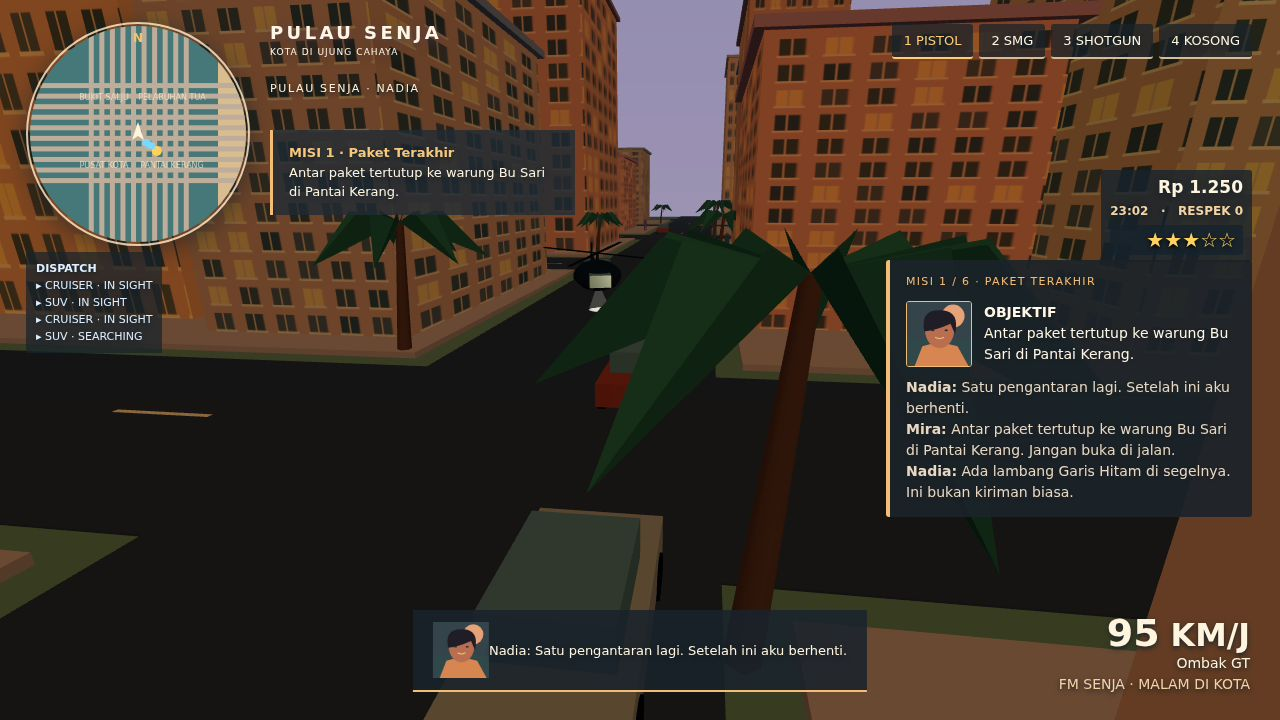
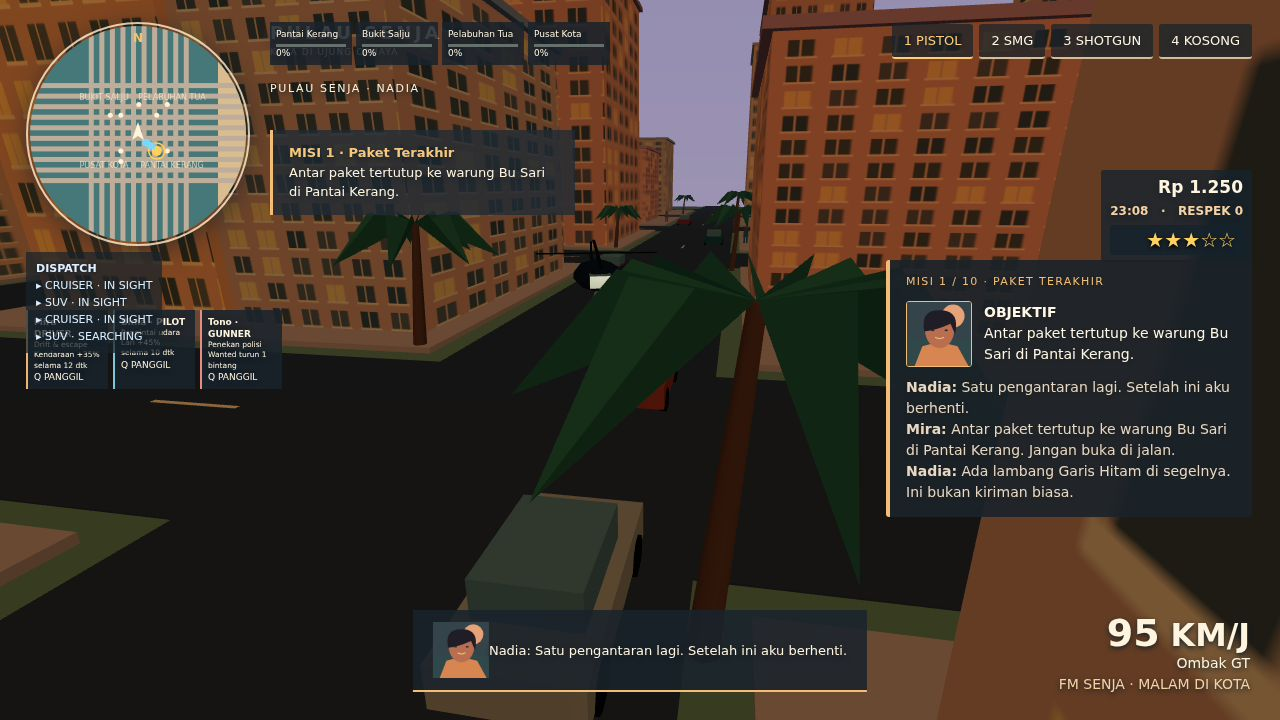
Crew system, district standing, 10 missions, 14 vehicles (recorded)

diff --git a/game/src/missions.js b/game/src/missions.js
@@ -2,13 +2,18 @@ import { getDialogue, getMissionTitle } from './story.js';
 import { createPortrait } from './portrait.js';
 
 const missions = [
-  { objective: 'Antar paket tertutup ke warung Bu Sari di Pantai Kerang.', target: [68, 0, 68], action: 'deliver', reward: 250, respect: 5 },
-  { objective: 'Selidiki peti Garis Hitam di gudang Pelabuhan Tua.', target: [68, 0, -68], action: 'reach', reward: 400, respect: 8 },
-  { objective: 'Temui Raka di jalan layang Pusat Kota dan dengarkan kesaksiannya.', target: [-68, 0, 68], action: 'reach', reward: 550, respect: 10 },
-  { objective: 'Buntuti kurir Garis Hitam sampai ke Bukit Salju.', target: [-68, 0, -68], action: 'follow', reward: 700, respect: 12 },
-  { objective: 'Ambil buku catatan pemerasan dari menara pengawas.', target: [0, 0, -108], action: 'collect', reward: 900, respect: 16 },
-  { objective: 'Bawa salinan bukti ke stasiun radio dan ungkap Garis Hitam.', target: [0, 0, 0], action: 'broadcast', reward: 1500, respect: 25 },
+  { objective: 'Antar paket tertutup ke warung Bu Sari di Pantai Kerang.', target: [68, 0, 68], district: 'Pantai Kerang', action: 'deliver', reward: 250, respect: 5 },
+  { objective: 'Selidiki peti Garis Hitam di gudang Pelabuhan Tua.', target: [68, 0, -68], district: 'Pelabuhan Tua', action: 'reach', reward: 400, respect: 8 },
+  { objective: 'Temui Raka di jalan layang Pusat Kota dan dengarkan kesaksiannya.', target: [-68, 0, 68], district: 'Pusat Kota', action: 'reach', reward: 550, respect: 10 },
+  { objective: 'Buntuti kurir Garis Hitam sampai ke Bukit Salju.', target: [-68, 0, -68], district: 'Bukit Salju', action: 'follow', reward: 700, respect: 12 },
+  { objective: 'Ambil buku catatan pemerasan dari menara pengawas.', target: [0, 0, -108], district: 'Bukit Salju', action: 'collect', reward: 900, respect: 16 },
+  { objective: 'Bawa salinan bukti ke stasiun radio dan ungkap Garis Hitam.', target: [0, 0, 0], district: 'Pusat Kota', action: 'broadcast', reward: 1500, respect: 25 },
+  { objective: 'Temukan saksi pelabuhan yang bersembunyi di Pantai Kerang.', target: [108, 0, 68], district: 'Pantai Kerang', action: 'reach', reward: 650, respect: 12 },
+  { objective: 'Kawal kapal kecil membawa bukti melewati dermaga lama.', target: [108, 0, -108], district: 'Pelabuhan Tua', action: 'reach', reward: 800, respect: 15 },
+  { objective: 'Ambil rekaman transaksi dari garasi di Bukit Salju.', target: [-108, 0, -68], district: 'Bukit Salju', action: 'collect', reward: 950, respect: 18 },
+  { objective: 'Sampaikan bukti terakhir ke warga di alun-alun kota.', target: [-68, 0, 108], district: 'Pusat Kota', action: 'broadcast', reward: 1800, respect: 30 },
 ];
+const bonusMission = { title: 'Bantuan Warga', objective: 'Bantu warga melindungi kios dari pemerasan.', target: [68, 0, 108], district: 'Pantai Kerang', action: 'reach', reward: 1200, respect: 20, bonus: true };
 
 for (const [index, mission] of missions.entries()) {
   mission.title = getMissionTitle(index);
@@ -30,20 +35,22 @@ function ensurePanel() {
   return panel;
 }
 
-export function createMissions({ player, query = new URLSearchParams(location.search), initialMission = 0, onComplete = () => {} } = {}) {
+export function createMissions({ player, query = new URLSearchParams(location.search), initialMission = 0, getStanding = () => 0, onComplete = () => {} } = {}) {
   const requestedMission = Number(query.get('mission'));
   let index = query.has('mission') && Number.isFinite(requestedMission) && requestedMission >= 1
     ? Math.max(0, Math.min(missions.length - 1, Math.floor(requestedMission) - 1))
     : Math.max(0, Math.min(missions.length - 1, initialMission));
   let complete = false;
+  let bonusAvailable = getStanding('Pantai Kerang') >= 12;
+  let bonusActive = false;
   const panel = ensurePanel();
 
   function render() {
-    const mission = missions[index];
-    const lines = getDialogue(index);
+    const mission = bonusActive ? bonusMission : missions[index];
+    const lines = bonusActive ? getDialogue(10) : getDialogue(index);
     const speaker = lines[0]?.speaker ?? 'Nadia';
     const portrait = createPortrait(speaker, 64).toDataURL();
-    panel.innerHTML = `<div style="color:#f4bd77;letter-spacing:.12em;font-size:11px">MISI ${index + 1} / ${missions.length} · ${mission.title.toUpperCase()}</div><div style="display:flex;gap:12px;align-items:center;margin-top:10px"><img width="64" height="64" alt="Potret ${speaker}" src="${portrait}" style="border:1px solid #f4bd77;border-radius:3px"><div><strong>OBJEKTIF</strong><br>${mission.objective}</div></div><div style="margin-top:10px;color:#e7d7c3">${lines.map(line => `<div><b>${line.speaker}:</b> ${line.text}</div>`).join('')}</div>${complete ? '<div style="margin-top:9px;color:#f4bd77">MISI SELESAI · TUJUAN BERIKUTNYA TERBUKA</div>' : ''}`;
+    panel.innerHTML = `<div style="color:#f4bd77;letter-spacing:.12em;font-size:11px">${bonusActive ? 'MISI BONUS' : `MISI ${index + 1} / ${missions.length}`} · ${mission.title.toUpperCase()}</div><div style="display:flex;gap:12px;align-items:center;margin-top:10px"><img width="64" height="64" alt="Potret ${speaker}" src="${portrait}" style="border:1px solid #f4bd77;border-radius:3px"><div><strong>OBJEKTIF</strong><br>${mission.objective}</div></div><div style="margin-top:10px;color:#e7d7c3">${lines.map(line => `<div><b>${line.speaker}:</b> ${line.text}</div>`).join('')}</div>${complete ? '<div style="margin-top:9px;color:#f4bd77">MISI SELESAI · TUJUAN BERIKUTNYA TERBUKA</div>' : ''}`;
     panel.hidden = false;
     panel.style.display = 'block';
     panel.style.top = '260px';
@@ -51,12 +58,16 @@ export function createMissions({ player, query = new URLSearchParams(location.se
 
   function update() {
     if (complete) return false;
-    const mission = missions[index];
+    const mission = bonusActive ? bonusMission : missions[index];
+    if (!bonusAvailable && getStanding('Pantai Kerang') >= 20) {
+      bonusAvailable = true;
+      render();
+    }
     const dx = player.position.x - mission.target[0];
     const dz = player.position.z - mission.target[2];
     if (Math.hypot(dx, dz) < 9) {
       complete = true;
-      onComplete({ ...mission, index });
+      onComplete({ ...mission, index, bonus: bonusActive });
       render();
       return true;
     }
@@ -64,15 +75,26 @@ export function createMissions({ player, query = new URLSearchParams(location.se
   }
 
   function advance() {
-    if (!complete || index >= missions.length - 1) return false;
-    index += 1;
+    if (!complete) return false;
+    if (bonusActive) {
+      bonusActive = false;
+      bonusAvailable = false;
+    } else if (index < missions.length - 1) index += 1;
+    else return false;
     complete = false;
     render();
     return true;
   }
 
+  function startBonus() {
+    if (!bonusAvailable || bonusActive || complete) return false;
+    bonusActive = true;
+    render();
+    return true;
+  }
+
   render();
-  return { update, advance, get current() { return { ...missions[index], index, complete }; } };
+  return { update, advance, startBonus, get bonusAvailable() { return bonusAvailable; }, get current() { return { ...(bonusActive ? bonusMission : missions[index]), index, complete, bonus: bonusActive }; } };
 }
 
 export { missions };

diff --git a/game/src/hud.js b/game/src/hud.js
@@ -2,12 +2,13 @@ import { createMinimap } from './minimap.js';
 import { createPortrait } from './portrait.js';
 
 const style = document.createElement('style');
-style.textContent = `#ps-hud{position:fixed;inset:0;z-index:4;color:#fff5df;font:13px Arial,sans-serif;text-shadow:0 2px 5px #18232c;pointer-events:none}#ps-map{position:absolute;left:26px;top:22px}#ps-stats{position:absolute;right:28px;top:140px;text-align:right;font-size:17px;font-weight:bold}#ps-stats small{display:block;font-size:12px;color:#f6d2a3;margin-top:7px}#ps-weapons{position:absolute;right:28px;top:24px;display:flex;gap:6px}#ps-weapons span{padding:9px 12px;background:#19232cbb;border-bottom:2px solid #d5bd98;border-radius:3px}#ps-weapons .active{border-color:#ffce76;color:#ffce76}#ps-car{position:absolute;right:30px;bottom:28px;text-align:right;font-size:14px}#ps-speed{font-size:38px;font-weight:bold}#ps-radio{color:#f6d2a3;margin-top:5px}#ps-mission{position:absolute;left:270px;top:130px;width:270px;padding:13px 16px;background:#202b35c9;border-left:3px solid #f3bd76;line-height:1.5}#ps-dialogue{position:absolute;left:50%;bottom:28px;transform:translateX(-50%);min-width:380px;max-width:620px;padding:12px 20px;background:#19232cdd;border-bottom:2px solid #f3bd76;text-align:center;display:none}#ps-dialogue img{width:56px;height:56px;object-fit:cover;border:1px solid #f3bd76;border-radius:3px}#ps-dialogue-content{display:inline-block;vertical-align:middle;margin-left:12px;max-width:500px;text-align:left}#ps-dispatch{position:absolute;left:26px;top:252px;padding:8px 10px;background:#19232cbb;line-height:1.55;color:#dceeff;font-size:11px}#ps-title{position:absolute;left:270px;top:82px;font-size:11px;letter-spacing:.15em;color:#fff0d6}`;
+style.textContent = `#ps-hud{position:fixed;inset:0;z-index:4;color:#fff5df;font:13px Arial,sans-serif;text-shadow:0 2px 5px #18232c;pointer-events:none}#ps-map{position:absolute;left:26px;top:22px}#ps-stats{position:absolute;right:28px;top:140px;text-align:right;font-size:17px;font-weight:bold}#ps-stats small{display:block;font-size:12px;color:#f6d2a3;margin-top:7px}#ps-weapons{position:absolute;right:28px;top:24px;display:flex;gap:6px}#ps-weapons span{padding:9px 12px;background:#19232cbb;border-bottom:2px solid #d5bd98;border-radius:3px}#ps-weapons .active{border-color:#ffce76;color:#ffce76}#ps-car{position:absolute;right:30px;bottom:28px;text-align:right;font-size:14px}#ps-speed{font-size:38px;font-weight:bold}#ps-radio{color:#f6d2a3;margin-top:5px}#ps-mission{position:absolute;left:270px;top:130px;width:270px;padding:13px 16px;background:#202b35c9;border-left:3px solid #f3bd76;line-height:1.5}#ps-dialogue{position:absolute;left:50%;bottom:28px;transform:translateX(-50%);min-width:380px;max-width:620px;padding:12px 20px;background:#19232cdd;border-bottom:2px solid #f3bd76;text-align:center;display:none}#ps-dialogue img{width:56px;height:56px;object-fit:cover;border:1px solid #f3bd76;border-radius:3px}#ps-dialogue-content{display:inline-block;vertical-align:middle;margin-left:12px;max-width:500px;text-align:left}#ps-dispatch{position:absolute;left:26px;top:252px;padding:8px 10px;background:#19232cbb;line-height:1.55;color:#dceeff;font-size:11px}#ps-title{position:absolute;left:270px;top:82px;font-size:11px;letter-spacing:.15em;color:#fff0d6}#ps-crew{position:absolute;left:26px;top:310px;display:grid;grid-template-columns:repeat(3,82px);gap:5px}#ps-crew article,#ps-standing article{background:#19232cdd;border-left:2px solid var(--crew);padding:6px;font-size:9px;line-height:1.35}#ps-crew b,#ps-crew small{display:block}#ps-standing{position:absolute;left:270px;top:22px;display:flex;gap:4px}#ps-standing article{width:70px;border-color:#f3bd76}#ps-standing i{display:block;height:3px;background:#66716e;margin-top:4px}#ps-standing em{display:block;height:3px;background:#f3bd76}`;
+
 document.head.append(style);
 
 export function createHud() {
   const root = document.createElement('div'); root.id = 'ps-hud';
-  root.innerHTML = '<div id="ps-map"></div><div id="ps-stats"></div><div id="ps-weapons"></div><div id="ps-car"></div><div id="ps-mission"></div><div id="ps-dialogue"></div><div id="ps-dispatch"></div><div id="ps-title">PULAU SENJA · NADIA</div>';
+  root.innerHTML = '<div id="ps-map"></div><div id="ps-standing"></div><div id="ps-crew"></div><div id="ps-stats"></div><div id="ps-weapons"></div><div id="ps-car"></div><div id="ps-mission"></div><div id="ps-dialogue"></div><div id="ps-dispatch"></div><div id="ps-title">PULAU SENJA · NADIA</div>';
   const shotNumber = Number(new URLSearchParams(location.search).get('shot'));
   const hint = document.querySelector('#hint');
   document.body.append(root);
@@ -27,8 +28,13 @@ export function createHud() {
     const speed = data.vehicle ? (shotNumber === 1 ? 95 : Math.round(Math.abs(data.vehicle.speed) * 3.6)) : 0;
     document.querySelector('#ps-car').innerHTML = data.vehicle ? `<div id="ps-speed">${speed}<small> KM/J</small></div>${data.vehicle.name}<div id="ps-radio">FM SENJA · ${data.radio ?? 'MALAM DI KOTA'}</div>` : '';
     const mission = data.mission;
-    document.querySelector('#ps-mission').innerHTML = mission ? `<b style="color:#f6c77d">MISI ${mission.index + 1} · ${mission.title}</b><br>${mission.objective}` : '';
-    map.draw(data.player, mission, data.police);
+    document.querySelector('#ps-mission').innerHTML = mission ? `<b style="color:#f6c77d">${mission.bonus ? 'MISI BONUS' : `MISI ${mission.index + 1} · ${mission.title}`}</b><br>${mission.objective}` : '';
+    const standing = document.querySelector('#ps-standing');
+    standing.innerHTML = (data.districts ?? []).map(d => `<article>${d.name}<i><em style="width:${Math.min(100, d.value)}%"></em></i>${d.value}%</article>`).join('');
+    const crew = document.querySelector('#ps-crew');
+    crew.innerHTML = (data.crew?.members ?? []).map(member => `<article style="--crew:${member.color}"><b>${member.name} · ${member.role}</b><small>${member.specialty}</small><small>${member.ability}</small>${data.crew.active === member.type ? 'AKTIF' : data.crew.cooldown > 0 ? `Q ${Math.ceil(data.crew.cooldown)}s` : 'Q PANGGIL'}</article>`).join('');
+    map.draw(data.player, mission, data.police, data.missions);
+    if (mission?.title) document.querySelector('#ps-mission b').textContent = mission.bonus ? 'MISI BONUS' : `MISI ${mission.index + 1} · ${mission.title}`;
     const dispatch = document.querySelector('#ps-dispatch');
     dispatch.innerHTML = data.policeStatus?.length ? `<b>DISPATCH</b><br>${data.policeStatus.map(status => `▸ ${status}`).join('<br>')}` : '';
     const bar = document.querySelector('#ps-dialogue');

diff --git a/game/src/main.js b/game/src/main.js
@@ -7,8 +7,9 @@ import { createPlayer, updatePlayer, nearbyVehicle, enterVehicle, leaveVehicle, 
 import { createVehicles, createTrafficCars, updateVehicle } from './vehicles.js';
 import { tickTraffic } from './traffic.js';
 import { createPeds, tickPeds } from './peds.js';
-import { createMissions } from './missions.js';
+import { createMissions, missions as missionList } from './missions.js';
 import { createHud } from './hud.js';
+import { createCrew } from './crew.js';
 import { createAudio } from './audio.js';
 import { loadGame, saveGame } from './save.js';
 import { createMenu } from './menu.js';
@@ -30,7 +31,7 @@ const environment = createEnvironment(scene);
 const city = createCity(scene);
 const input = createInput(renderer.domElement);
 const player = createPlayer(scene);
-const vehicles = createVehicles(scene, city.blockers, 8);
+const vehicles = createVehicles(scene, city.blockers, 14);
 const traffic = createTrafficCars(scene, vehicles, 10);
 const peds = createPeds(scene);
 const query = new URLSearchParams(location.search);
@@ -38,19 +39,27 @@ const save = loadGame();
 if (save) player.position.set(save.x, 0.75, save.z);
 let money = save?.money ?? 1250;
 let respect = save?.respect ?? 0;
+const districts = city.districts.map(district => ({ name: district.name, value: Math.max(0, Math.min(100, save?.districts?.[district.name] ?? 0)) }));
+const police = createPolice(scene, Number(query.get('wanted')) || 0);
+let wanted = police.wanted;
+const crew = createCrew({ onWanted: value => { setPoliceWanted(police, value); wanted = police.wanted; } });
 const missions = createMissions({
   player,
   query,
   initialMission: save?.mission ?? 0,
+  getStanding: name => districts.find(district => district.name === name)?.value ?? 0,
   onComplete(mission) {
     money += mission.reward;
     respect += mission.respect;
+    if (mission.district) {
+      const standing = districts.find(district => district.name === mission.district);
+      if (standing) standing.value = Math.min(100, standing.value + Math.max(8, mission.respect));
+    }
   },
 });
+const persist = () => saveGame({ money, respect, mission: missions.current.index, player, districts: Object.fromEntries(districts.map(district => [district.name, district.value])) });
 const hud = createHud();
 const audio = createAudio();
-const police = createPolice(scene, Number(query.get('wanted')) || 0);
-let wanted = police.wanted;
 const clock = new THREE.Clock();
 const focus = new THREE.Vector3();
 const targetCamera = new THREE.Vector3();
@@ -65,10 +74,15 @@ if (shotSetup?.number === 1) {
   driven = chaseCar;
 }
 let toggleWasDown = false;
+let crewWasDown = false;
 
 function frame() {
   requestAnimationFrame(frame);
   const dt = Math.min(clock.getDelta(), 0.05);
+  crew.update(dt, player, driven);
+  const crewDown = input.keys.has('KeyQ');
+  if (crewDown && !crewWasDown) crew.call(player, vehicles, driven, police);
+  crewWasDown = crewDown;
   const toggleDown = input.keys.has('KeyF');
   if (toggleDown && !toggleWasDown) {
     if (driven) {
@@ -104,13 +118,14 @@ function frame() {
   }
   const hour = environment.update(clock.elapsedTime, startHour);
   const missionCompleted = missions.update();
-  if (missionCompleted) saveGame({ money, respect, mission: missions.current.index, player });
+  if (missionCompleted) persist();
+  if (!missions.current.bonus && missions.bonusAvailable) missions.startBonus();
   const mission = missions.current;
   audio.update(driven?.speed ?? 0, wanted);
   const dialogue = shotDialogue(shotSetup?.number) ?? getDialogue(mission.index)?.[0] ?? null;
-  hud.render({ player, vehicle: driven, mission, money, respect, wanted, hour, weapon: hud.weapon, dialogue, police: policeHud(police), policeStatus: getPoliceStatus(police) });
+  hud.render({ player, vehicle: driven, mission, missions: missionList.map((item, index) => ({ ...item, index })), districts, crew, money, respect, wanted, hour, weapon: hud.weapon, dialogue, police: policeHud(police), policeStatus: getPoliceStatus(police) });
   if (wanted !== police.wanted) wanted = police.wanted;
-  if (Math.floor(clock.elapsedTime) !== Math.floor(clock.elapsedTime - dt)) saveGame({ money, respect, mission: mission.index, player });
+  if (Math.floor(clock.elapsedTime) !== Math.floor(clock.elapsedTime - dt)) persist();
   renderer.render(scene, camera);
 }
 camera.position.set(-16, 13, -18);
@@ -130,24 +145,25 @@ window.pulauSenja = { camera, player, vehicles, traffic, peds, police, hud, audi
 
 window.addEventListener('keydown', event => {
   if (event.code === 'Enter' && missions.current.complete && missions.advance()) {
-    saveGame({ money, respect, mission: missions.current.index, player });
+    persist();
   }
   if (event.code === 'Escape') {
     if (document.querySelector('#ps-menu')) return;
     createMenu({
       onStart() {},
-      onSave() { saveGame({ money, respect, mission: missions.current.index, player }); },
+      onSave() { persist(); },
       onLoad() {
         const state = loadGame();
         if (!state) return false;
         money = state.money; respect = state.respect;
+        for (const district of districts) district.value = Math.max(0, Math.min(100, state.districts?.[district.name] ?? 0));
         player.position.set(state.x, 0.75, state.z);
         return true;
       },
     });
   }
 });
-window.addEventListener('beforeunload', () => saveGame({ money, respect, mission: missions.current.index, player }));
+window.addEventListener('beforeunload', persist);
 let mouseDown = false;
 renderer.domElement.addEventListener('pointerdown', event => {
   if (event.button !== 0 || mouseDown || driven) return;

diff --git a/game/src/vehicles.js b/game/src/vehicles.js
@@ -1,9 +1,10 @@
 import * as THREE from 'three';
 
-export const CAR_NAMES = ['Ombak GT', 'Sepat Badak', 'Layar Kencana', 'Rajawali Kota', 'Kuda Laut', 'Merapi Sport', 'Cendrawasih', 'Becak Baja'];
-const PAINT = ['#d87558', '#e4b64f', '#679b91', '#657ba0', '#c98791', '#d8d1bd', '#795c82', '#458080'];
+export const CAR_NAMES = ['Ombak GT', 'Sepat Badak', 'Layar Kencana', 'Rajawali Kota', 'Kuda Laut', 'Merapi Sport', 'Cendrawasih', 'Becak Baja', 'Sagara RS', 'Harimau Kota', 'Puspa Touring', 'Badai Selatan', 'Komet Senja', 'Benteng Tua'];
+const PAINT = ['#d87558', '#e4b64f', '#679b91', '#657ba0', '#c98791', '#d8d1bd', '#795c82', '#458080', '#c45d4c', '#8fa84b', '#65a7b5', '#be8b52', '#8874ad', '#7a8281'];
+const STATS = [30, 24, 27, 32, 22, 35, 29, 19, 38, 20, 26, 34, 40, 18];
 
-export function createVehicles(scene, blockers, count = 8) {
+export function createVehicles(scene, blockers, count = 14) {
   const cars = [];
   for (let i = 0; i < count; i++) {
     const group = new THREE.Group();
@@ -19,12 +20,13 @@ export function createVehicles(scene, blockers, count = 8) {
     const parking = [
       [0, 3.4], [40, -3.5], [-40, 3.5], [80, -3.5],
       [-80, 3.5], [120, -3.5], [-120, 3.5], [160, -3.5],
+      [0, -43.5], [40, 43.5], [-40, -43.5], [80, 43.5], [-80, -43.5], [120, 43.5],
     ];
     const spot = parking[i % parking.length];
     group.position.set(spot[0], 0, spot[1]);
     group.rotation.y = Math.PI;
     scene.add(group);
-    cars.push({ group, name: CAR_NAMES[i % CAR_NAMES.length], speed: 0, occupied: false, npc: false, wheels, paint });
+    cars.push({ group, name: CAR_NAMES[i % CAR_NAMES.length], speed: 0, maxSpeed: STATS[i % STATS.length], accel: 17 + i % 4, occupied: false, npc: false, wheels, paint });
   }
   return cars;
 }
@@ -49,8 +51,9 @@ export function collides(position, blockers, halfX = 1.2, halfZ = 2.2) {
 }
 
 export function updateVehicle(car, input, blockers, dt) {
-  const accel = input.keys.has('KeyW') ? 17 : input.keys.has('KeyS') ? -22 : 0;
-  car.speed = THREE.MathUtils.clamp(car.speed + accel * dt, -9, 30);
+  const accel = input.keys.has('KeyW') ? (car.accel ?? 17) : input.keys.has('KeyS') ? -22 : 0;
+  const crewBoost = performance.now() < (car.crewSpeedUntil ?? 0) ? 1.35 : 1;
+  car.speed = THREE.MathUtils.clamp(car.speed + accel * crewBoost * dt, -9, car.maxSpeed ?? 30);
   car.speed *= Math.exp(-dt * (accel ? 0.24 : 1.15));
   const steer = (input.keys.has('KeyA') ? 1 : 0) - (input.keys.has('KeyD') ? 1 : 0);
   if (Math.abs(car.speed) > 0.3) car.group.rotation.y += steer * dt * 1.45 * Math.sign(car.speed) * Math.min(1, Math.abs(car.speed) / 5);

diff --git a/game/src/crew.js b/game/src/crew.js
@@ -1,0 +1,42 @@
+const crew = [
+  { name: 'Mira', role: 'DRIVER', specialty: 'Drift & escape', ability: 'Kendaraan +35% selama 12 dtk', type: 'driver', color: '#f0b56c' },
+  { name: 'Bima', role: 'PILOT', specialty: 'Pengintai udara', ability: 'Lari +45% selama 10 dtk', type: 'pilot', color: '#79c9da' },
+  { name: 'Tono', role: 'GUNNER', specialty: 'Penekan polisi', ability: 'Wanted turun 1 bintang', type: 'gunner', color: '#e88c83' },
+];
+
+export function createCrew({ onWanted = () => {} } = {}) {
+  let active = null;
+  let cooldown = 0;
+  function call(player, vehicles, driven, police) {
+    if (cooldown > 0) return null;
+    const position = driven?.group.position ?? player.position;
+    const nearestCar = vehicles.filter(car => !car.npc && !car.occupied).sort((a, b) => position.distanceTo(a.group.position) - position.distanceTo(b.group.position))[0];
+    const carDistance = nearestCar ? position.distanceTo(nearestCar.group.position) : Infinity;
+    const type = driven || carDistance < 45 ? 'driver' : police.wanted > 0 ? 'gunner' : 'pilot';
+    const member = crew.find(item => item.type === type);
+    active = { type, time: type === 'gunner' ? 5 : 10, vehicle: driven || nearestCar };
+    cooldown = 18;
+    if (type === 'driver' && active.vehicle) {
+      active.vehicle.crewSpeedUntil = performance.now() + active.time * 1000;
+      active.vehicle.speed = Math.min(active.vehicle.maxSpeed ?? 30, active.vehicle.speed + 9);
+    }
+    if (type === 'pilot') {
+      active.previousSpeed = player.speed;
+      player.speed = 7.25;
+    }
+    if (type === 'gunner') onWanted(Math.max(0, police.wanted - 1));
+    return { ...member, duration: active.time };
+  }
+  function update(dt, player, driven) {
+    cooldown = Math.max(0, cooldown - dt);
+    if (!active) return;
+    active.time -= dt;
+    if (active.time > 0) return;
+    if (active.type === 'pilot') player.speed = active.previousSpeed ?? 5;
+    if (active.type === 'driver' && active.vehicle) active.vehicle.crewSpeedUntil = 0;
+    if (active.type === 'gunner') player.userData.gunnerUntil = 0;
+    active = null;
+  }
+  return { members: crew, call, update, get cooldown() { return cooldown; }, get active() { return active?.type ?? null; } };
+}
+export default createCrew;

diff --git a/game/src/minimap.js b/game/src/minimap.js
@@ -5,7 +5,7 @@ export function createMinimap() {
   canvas.width = canvas.height = 220;
   canvas.setAttribute('aria-label', 'Peta Pulau Senja');
   Object.assign(canvas.style, { width: '220px', height: '220px', borderRadius: '50%', border: '2px solid rgba(255,239,211,.8)', boxShadow: '0 5px 24px #17212a99' });
-  function draw(player, mission, police = []) {
+  function draw(player, mission, police = [], missions = []) {
     const ctx = canvas.getContext('2d');
     const scale = 95 / (CITY_EDGE * 2);
     ctx.clearRect(0, 0, 220, 220);
@@ -26,10 +26,16 @@ export function createMinimap() {
       ctx.fillStyle = '#fff2d8aa'; ctx.font = '8px Arial';
       ctx.fillText(district.name.toUpperCase(), 110 + district.x * 34, 110 + district.z * 34);
     }
+    for (const objective of missions) {
+      const x = 110 + (objective.target[0] - player.position.x) * scale;
+      const y = 110 + (objective.target[2] - player.position.z) * scale;
+      ctx.fillStyle = objective.index === mission?.index ? '#ffd15c' : '#fff2d8';
+      ctx.beginPath(); ctx.arc(x, y, objective.index === mission?.index ? 5 : 2.5, 0, Math.PI * 2); ctx.fill();
+    }
     if (mission) {
       const x = 110 + (mission.target[0] - player.position.x) * scale;
       const y = 110 + (mission.target[2] - player.position.z) * scale;
-      ctx.fillStyle = '#ffd15c'; ctx.beginPath(); ctx.arc(x, y, 5, 0, Math.PI * 2); ctx.fill();
+      ctx.strokeStyle = '#ffd15c'; ctx.lineWidth = 1.5; ctx.beginPath(); ctx.arc(x, y, 8, 0, Math.PI * 2); ctx.stroke();
     }
     for (const cop of police) {
       const x = 110 + (cop.x - player.position.x) * scale;

diff --git a/game/src/story.js b/game/src/story.js
@@ -51,6 +51,11 @@ export const story = {
         { speaker: 'Nadia', text: 'Malam ini kita berhenti bersembunyi. Kota ini milik warganya.' },
       ],
     },
+    { title: 'Saksi Pesisir', dialogue: [{ speaker: 'Mira', text: 'Seorang saksi menunggu di Pantai Kerang. Temui dia sebelum sindikat.' }, { speaker: 'Nadia', text: 'Aku akan pastikan dia aman.' }] },
+    { title: 'Lintasan Dermaga', dialogue: [{ speaker: 'Bima', text: 'Kapal pembawa bukti merapat di Pelabuhan Tua.' }, { speaker: 'Nadia', text: 'Kita kawal sampai semua dokumen selamat.' }] },
+    { title: 'Rekaman Garasi', dialogue: [{ speaker: 'Tono', text: 'Ada rekaman transaksi tersembunyi di Bukit Salju.' }, { speaker: 'Nadia', text: 'Ini akan menguatkan kesaksian warga.' }] },
+    { title: 'Kota Bersaksi', dialogue: [{ speaker: 'Mira', text: 'Warga berkumpul di alun-alun. Mereka siap bicara.' }, { speaker: 'Nadia', text: 'Hari ini Pulau Senja mendengar kebenaran.' }] },
+    { title: 'Bantuan Warga', dialogue: [{ speaker: 'Mira', text: 'Para pedagang Pantai Kerang membutuhkan bantuanmu.' }, { speaker: 'Nadia', text: 'Kita jaga lingkungan ini bersama.' }] },
   ],
 };
 

diff --git a/game/src/save.js b/game/src/save.js
@@ -7,7 +7,8 @@ export function loadGame() {
     return {
       money: Number.isFinite(saved.money) ? saved.money : 1250,
       respect: Number.isFinite(saved.respect) ? saved.respect : 0,
-      mission: Number.isInteger(saved.mission) ? Math.max(0, Math.min(5, saved.mission)) : 0,
+      mission: Number.isInteger(saved.mission) ? Math.max(0, Math.min(9, saved.mission)) : 0,
+      districts: saved.districts && typeof saved.districts === 'object' ? saved.districts : {},
       x: Number.isFinite(saved.x) ? saved.x : 0,
       z: Number.isFinite(saved.z) ? saved.z : 0,
     };
@@ -20,6 +21,7 @@ export function saveGame(state) {
       money: state.money ?? 1250,
       respect: state.respect ?? 0,
       mission: state.mission ?? 0,
+      districts: state.districts ?? {},
       x: state.player?.position.x ?? 0,
       z: state.player?.position.z ?? 0,
     }));
